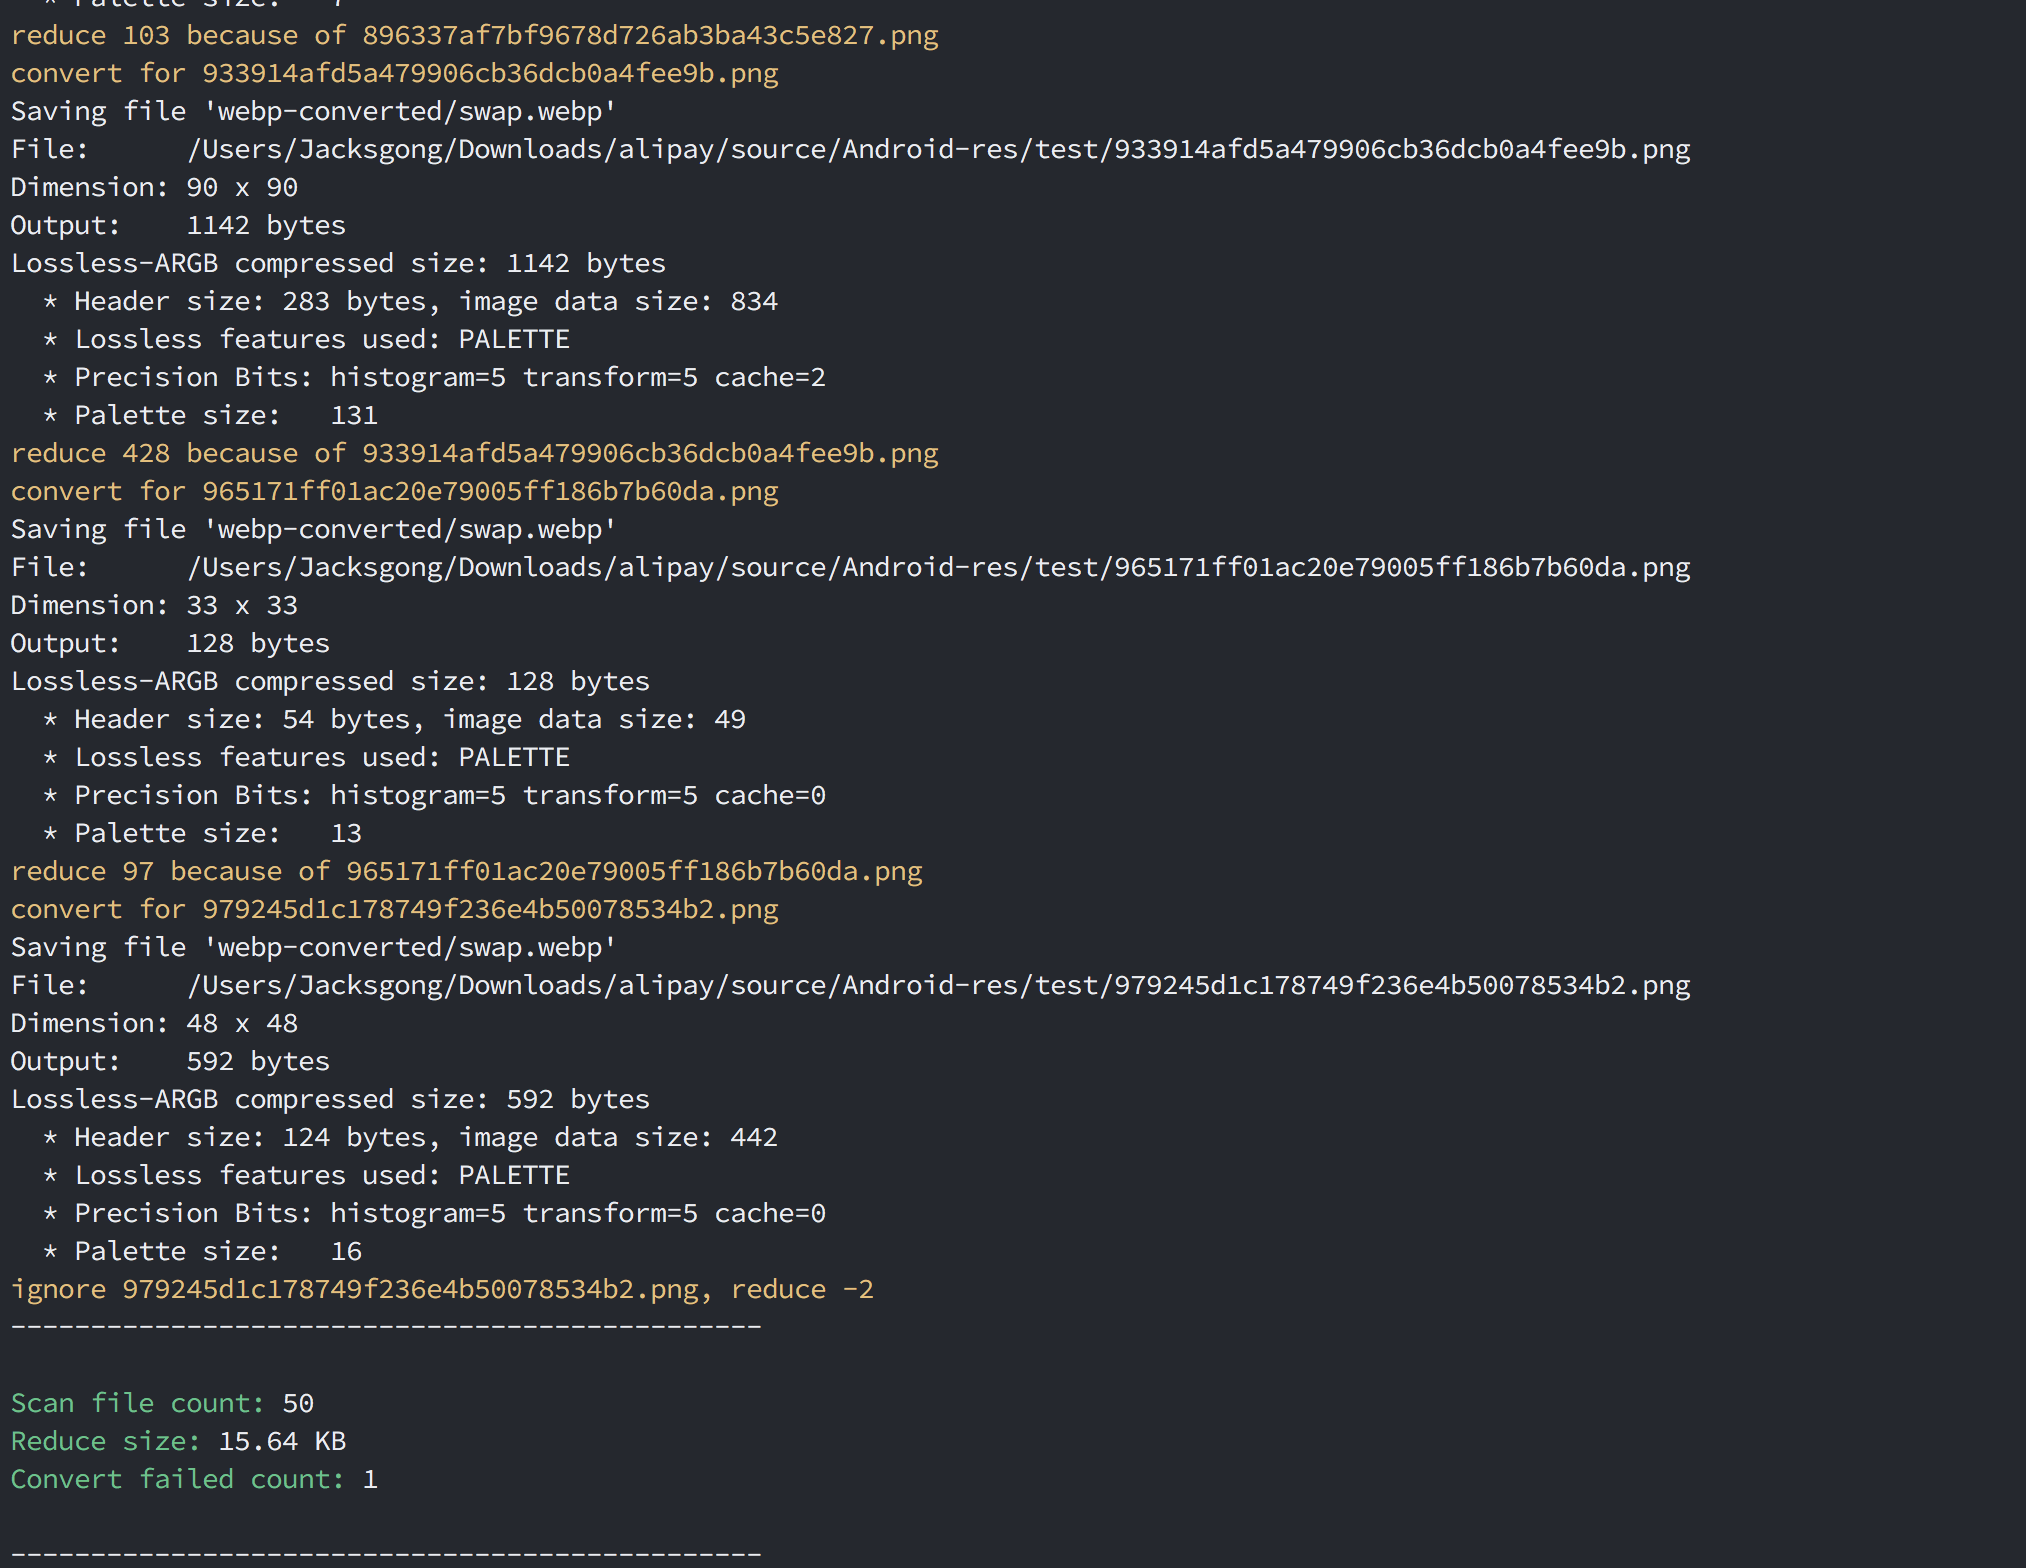
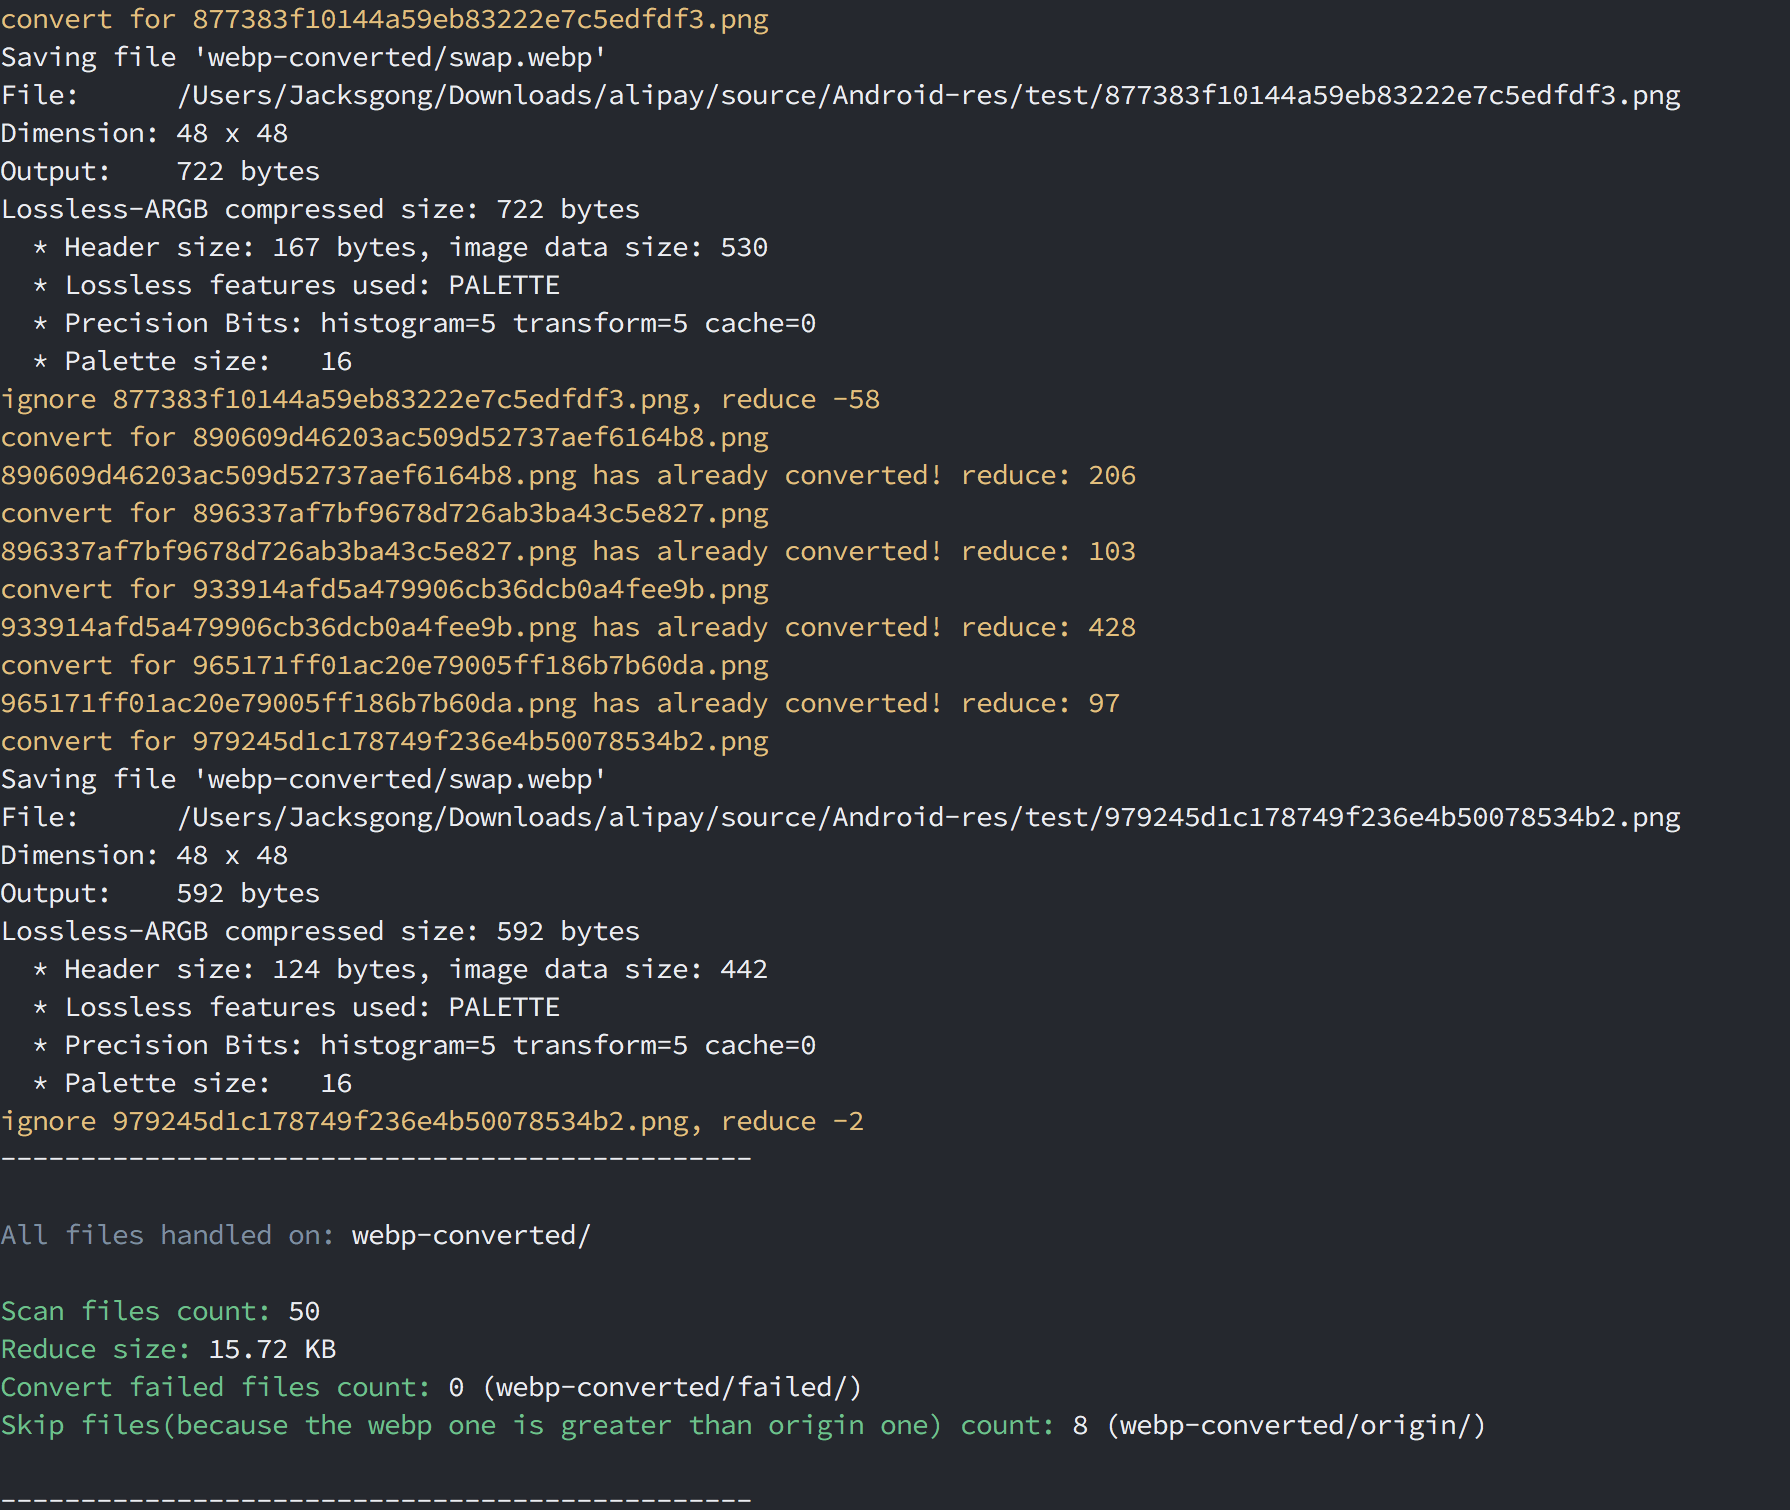
feat: optimize outputs

diff --git a/webp_converter.py b/webp_converter.py
@@ -117,6 +117,7 @@ all_reduce_size = 0
 process_file_count = 0
 failed_convert_count = 0
 scan_file_count = 0
+skip_file_count = 0
 
 if exists(swap_webp_path):
     remove(swap_webp_path)
@@ -155,6 +156,7 @@ for image_file_name in listdir(image_dir_path):
         print_process('ignore ' + image_file_name + ', reduce ' + reduce_size.__str__())
         remove(swap_webp_path)
 
+        skip_file_count += 1
         if not exists(keep_origin_path):
             makedirs(keep_origin_path)
         copyfile(image_file_path, keep_origin_path + image_file_name)
@@ -167,8 +169,13 @@ for image_file_name in listdir(image_dir_path):
 
 print '-----------------------------------------------'
 print ' '
-print colorize('Scan file count: ', fg=GREEN) + scan_file_count.__str__()
+print colorize('All files handled on: ', fg=BLUE) + root
+print ' '
+print colorize('Scan files count: ', fg=GREEN) + scan_file_count.__str__()
 print colorize('Reduce size: ', fg=GREEN) + human_bytes(all_reduce_size)
-print colorize('Convert failed count: ', fg=GREEN) + failed_convert_count.__str__()
+print colorize('Convert failed files count: ',
+               fg=GREEN) + failed_convert_count.__str__() + ' (' + convert_fail_path + ')'
+print colorize('Skip files(because the webp one is greater than origin one) count: ',
+               fg=GREEN) + skip_file_count.__str__() + ' (' + keep_origin_path + ')'
 print ' '
 print '-----------------------------------------------'
